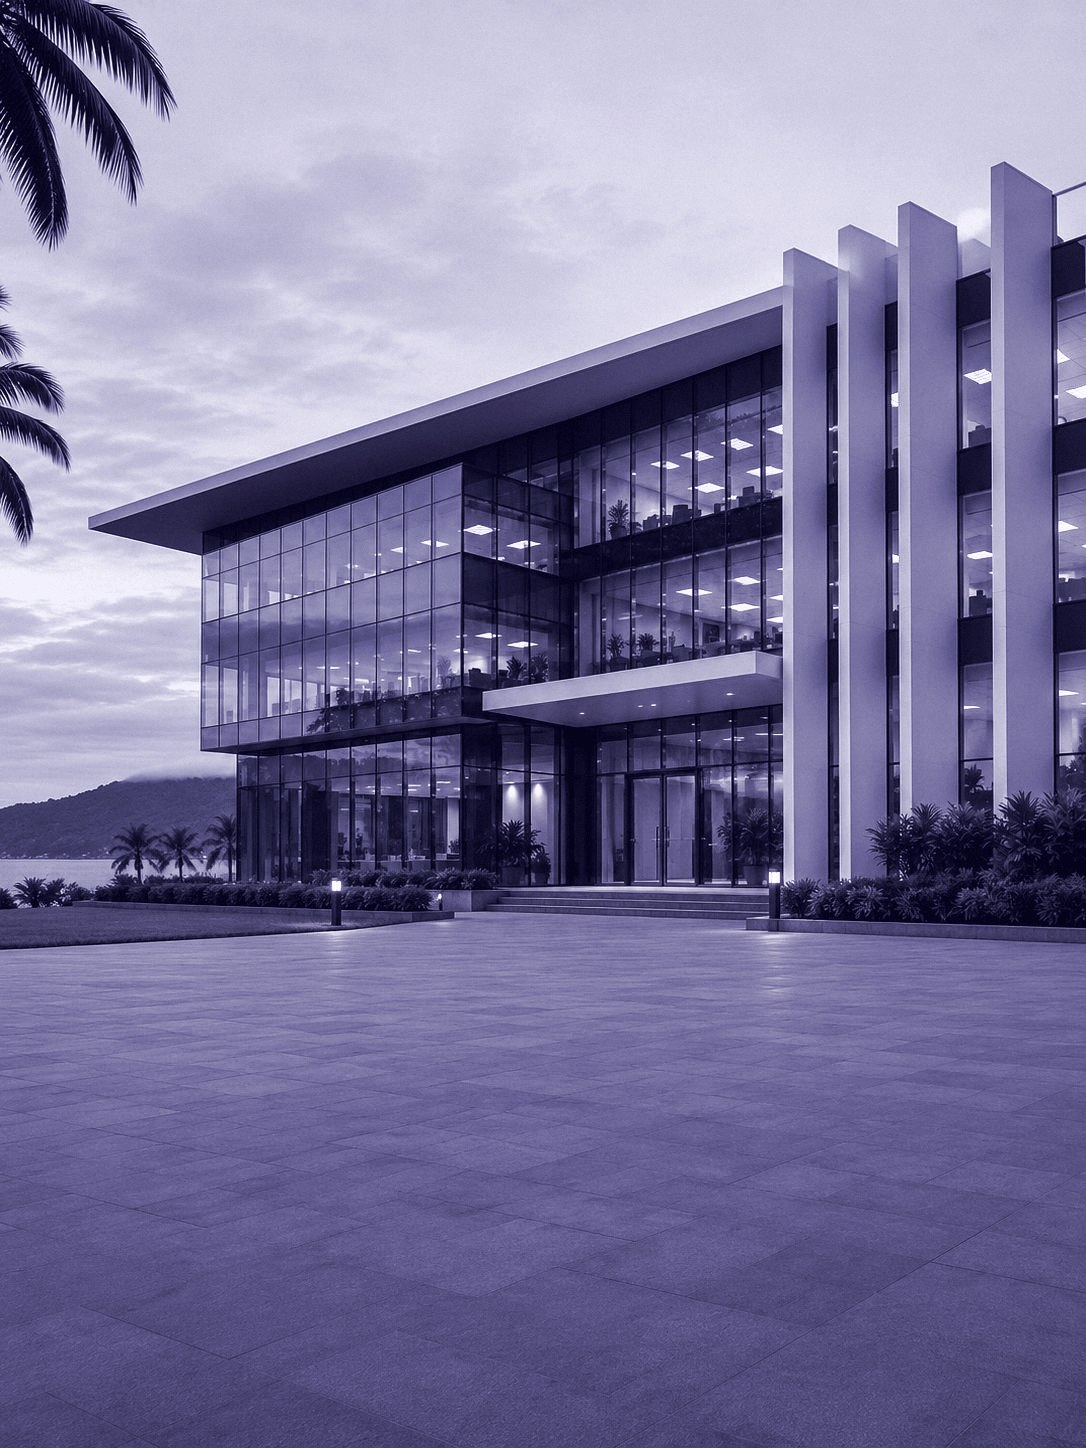
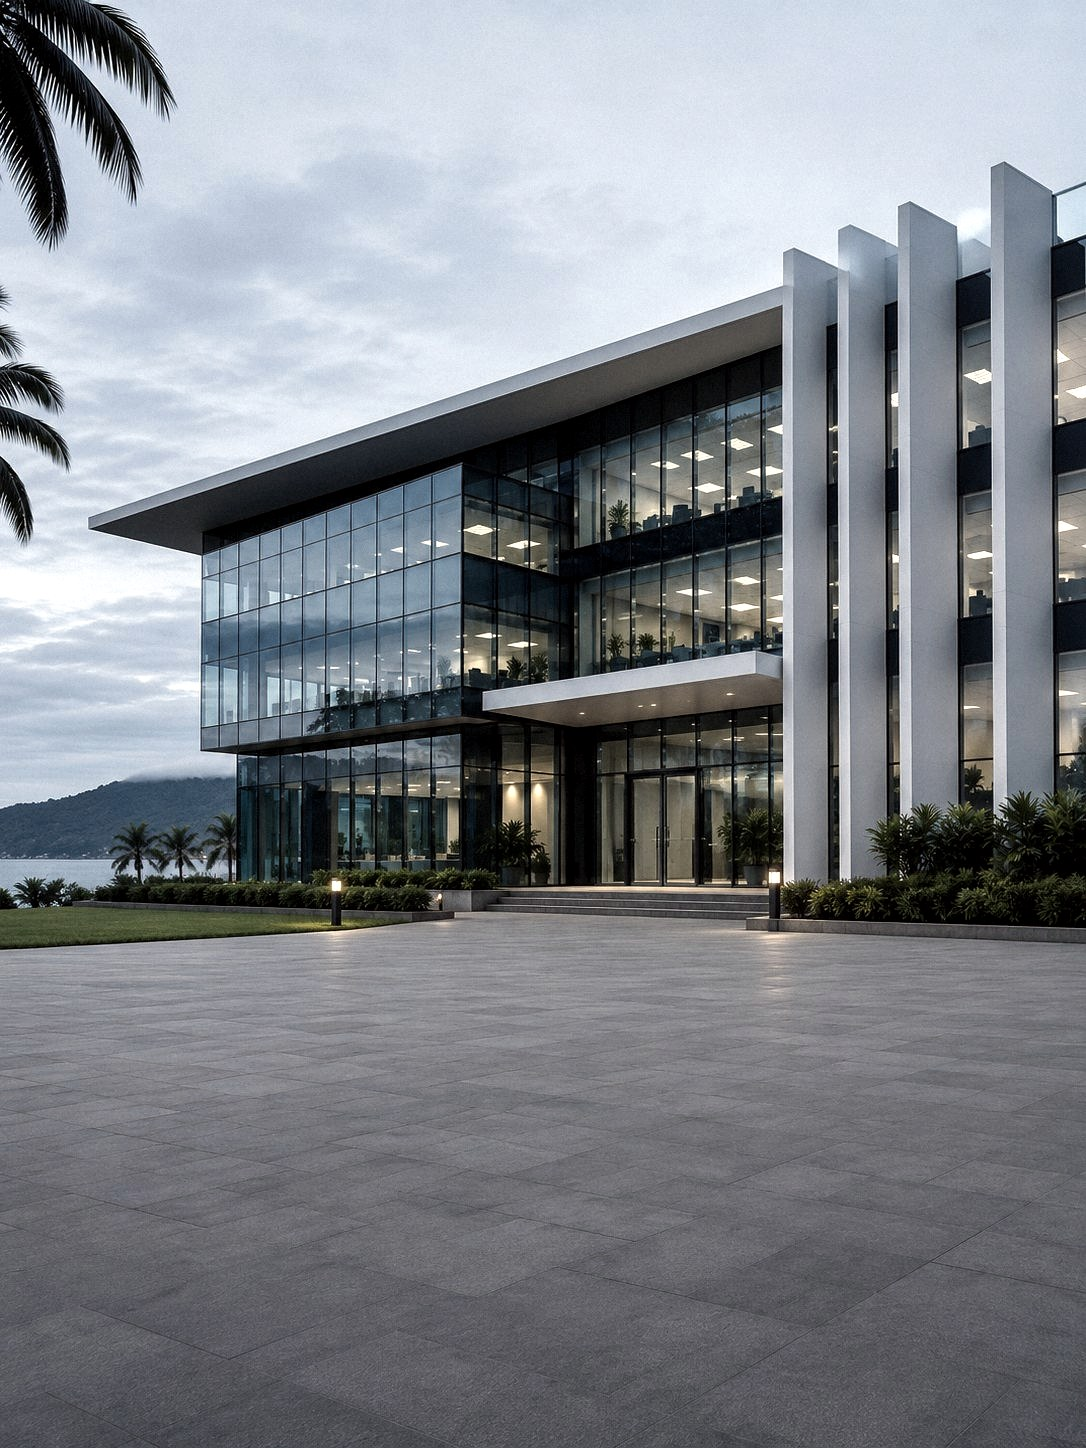
Balance pass: natural photography, neutral surfaces, light hero and client wall
- Regrade all photos from the originals: true colour, slightly desaturated,
  blue cast neutralised; no duotone tint
- Neutral paper and mist tokens; white is the action colour on dark panels;
  violet kept as a precise accent
- Hero settles into paper instead of night; client wall is light with ink
  client logos and an ink partner strip
- Quieten the brand patterns on the remaining dark panels

diff --git a/index.html b/index.html
@@ -77,10 +77,10 @@
       <p>Trusted by enterprise teams across the US, India, Australia and Europe</p>
       <a href="#results" class="allies-link">See client results <svg class="ar"><use href="#arr"/></svg></a>
     </div>
-    <div class="marq"><ul class="mtrack"><li><img src="assets/logos/mono/marriott-1-1.png" alt="Marriott Bonvoy" loading="lazy" decoding="async" width="170" height="60"></li><li><img src="assets/logos/mono/verizon-1-1.png" alt="Verizon" loading="lazy" decoding="async" width="170" height="60"></li><li><img src="assets/logos/mono/cinemark-1-1.png" alt="Cinemark" loading="lazy" decoding="async" width="170" height="60"></li><li><img src="assets/logos/mono/frontier-1-1.png" alt="Frontier Communications" loading="lazy" decoding="async" width="170" height="60"></li><li><img src="assets/logos/mono/sinclair-1-1.png" alt="Sinclair Broadcast Group" loading="lazy" decoding="async" width="170" height="60"></li><li><img src="assets/logos/mono/harte_hanks-1-1.png" alt="Harte Hanks" loading="lazy" decoding="async" width="170" height="60"></li><li><img src="assets/logos/mono/masergy-1-1.png" alt="Masergy" loading="lazy" decoding="async" width="170" height="60"></li><li><img src="assets/logos/mono/torani-1-1.png" alt="Torani" loading="lazy" decoding="async" width="170" height="60"></li><li aria-hidden="true"><img src="assets/logos/mono/marriott-1-1.png" alt="" data-alt="Marriott Bonvoy" loading="lazy" decoding="async" width="170" height="60"></li><li aria-hidden="true"><img src="assets/logos/mono/verizon-1-1.png" alt="" data-alt="Verizon" loading="lazy" decoding="async" width="170" height="60"></li><li aria-hidden="true"><img src="assets/logos/mono/cinemark-1-1.png" alt="" data-alt="Cinemark" loading="lazy" decoding="async" width="170" height="60"></li><li aria-hidden="true"><img src="assets/logos/mono/frontier-1-1.png" alt="" data-alt="Frontier Communications" loading="lazy" decoding="async" width="170" height="60"></li><li aria-hidden="true"><img src="assets/logos/mono/sinclair-1-1.png" alt="" data-alt="Sinclair Broadcast Group" loading="lazy" decoding="async" width="170" height="60"></li><li aria-hidden="true"><img src="assets/logos/mono/harte_hanks-1-1.png" alt="" data-alt="Harte Hanks" loading="lazy" decoding="async" width="170" height="60"></li><li aria-hidden="true"><img src="assets/logos/mono/masergy-1-1.png" alt="" data-alt="Masergy" loading="lazy" decoding="async" width="170" height="60"></li><li aria-hidden="true"><img src="assets/logos/mono/torani-1-1.png" alt="" data-alt="Torani" loading="lazy" decoding="async" width="170" height="60"></li></ul></div>
-    <div class="marq rev"><ul class="mtrack"><li><img src="assets/logos/mono/nch-1-1.png" alt="NCH" loading="lazy" decoding="async" width="170" height="60"></li><li><img src="assets/logos/mono/npc-1-1.png" alt="NPC International" loading="lazy" decoding="async" width="170" height="60"></li><li><img src="assets/logos/mono/capps-1-1.png" alt="CAPPS" loading="lazy" decoding="async" width="170" height="60"></li><li><img src="assets/logos/mono/cbs_rentals-1-1.png" alt="CBS Rentals" loading="lazy" decoding="async" width="170" height="60"></li><li><img src="assets/logos/mono/coach_net-1-1.png" alt="Coach-Net" loading="lazy" decoding="async" width="170" height="60"></li><li><img src="assets/logos/mono/demdaco-1-1.png" alt="DEMDACO" loading="lazy" decoding="async" width="170" height="60"></li><li><img src="assets/logos/mono/etc.png" alt="ETC" loading="lazy" decoding="async" width="170" height="60"></li><li aria-hidden="true"><img src="assets/logos/mono/nch-1-1.png" alt="" data-alt="NCH" loading="lazy" decoding="async" width="170" height="60"></li><li aria-hidden="true"><img src="assets/logos/mono/npc-1-1.png" alt="" data-alt="NPC International" loading="lazy" decoding="async" width="170" height="60"></li><li aria-hidden="true"><img src="assets/logos/mono/capps-1-1.png" alt="" data-alt="CAPPS" loading="lazy" decoding="async" width="170" height="60"></li><li aria-hidden="true"><img src="assets/logos/mono/cbs_rentals-1-1.png" alt="" data-alt="CBS Rentals" loading="lazy" decoding="async" width="170" height="60"></li><li aria-hidden="true"><img src="assets/logos/mono/coach_net-1-1.png" alt="" data-alt="Coach-Net" loading="lazy" decoding="async" width="170" height="60"></li><li aria-hidden="true"><img src="assets/logos/mono/demdaco-1-1.png" alt="" data-alt="DEMDACO" loading="lazy" decoding="async" width="170" height="60"></li><li aria-hidden="true"><img src="assets/logos/mono/etc.png" alt="" data-alt="ETC" loading="lazy" decoding="async" width="170" height="60"></li></ul></div>
+    <div class="marq"><ul class="mtrack"><li><img src="assets/logos/mono-ink/marriott-1-1.png" alt="Marriott Bonvoy" loading="lazy" decoding="async" width="170" height="60"></li><li><img src="assets/logos/mono-ink/verizon-1-1.png" alt="Verizon" loading="lazy" decoding="async" width="170" height="60"></li><li><img src="assets/logos/mono-ink/cinemark-1-1.png" alt="Cinemark" loading="lazy" decoding="async" width="170" height="60"></li><li><img src="assets/logos/mono-ink/frontier-1-1.png" alt="Frontier Communications" loading="lazy" decoding="async" width="170" height="60"></li><li><img src="assets/logos/mono-ink/sinclair-1-1.png" alt="Sinclair Broadcast Group" loading="lazy" decoding="async" width="170" height="60"></li><li><img src="assets/logos/mono-ink/harte_hanks-1-1.png" alt="Harte Hanks" loading="lazy" decoding="async" width="170" height="60"></li><li><img src="assets/logos/mono-ink/masergy-1-1.png" alt="Masergy" loading="lazy" decoding="async" width="170" height="60"></li><li><img src="assets/logos/mono-ink/torani-1-1.png" alt="Torani" loading="lazy" decoding="async" width="170" height="60"></li><li aria-hidden="true"><img src="assets/logos/mono-ink/marriott-1-1.png" alt="" data-alt="Marriott Bonvoy" loading="lazy" decoding="async" width="170" height="60"></li><li aria-hidden="true"><img src="assets/logos/mono-ink/verizon-1-1.png" alt="" data-alt="Verizon" loading="lazy" decoding="async" width="170" height="60"></li><li aria-hidden="true"><img src="assets/logos/mono-ink/cinemark-1-1.png" alt="" data-alt="Cinemark" loading="lazy" decoding="async" width="170" height="60"></li><li aria-hidden="true"><img src="assets/logos/mono-ink/frontier-1-1.png" alt="" data-alt="Frontier Communications" loading="lazy" decoding="async" width="170" height="60"></li><li aria-hidden="true"><img src="assets/logos/mono-ink/sinclair-1-1.png" alt="" data-alt="Sinclair Broadcast Group" loading="lazy" decoding="async" width="170" height="60"></li><li aria-hidden="true"><img src="assets/logos/mono-ink/harte_hanks-1-1.png" alt="" data-alt="Harte Hanks" loading="lazy" decoding="async" width="170" height="60"></li><li aria-hidden="true"><img src="assets/logos/mono-ink/masergy-1-1.png" alt="" data-alt="Masergy" loading="lazy" decoding="async" width="170" height="60"></li><li aria-hidden="true"><img src="assets/logos/mono-ink/torani-1-1.png" alt="" data-alt="Torani" loading="lazy" decoding="async" width="170" height="60"></li></ul></div>
+    <div class="marq rev"><ul class="mtrack"><li><img src="assets/logos/mono-ink/nch-1-1.png" alt="NCH" loading="lazy" decoding="async" width="170" height="60"></li><li><img src="assets/logos/mono-ink/npc-1-1.png" alt="NPC International" loading="lazy" decoding="async" width="170" height="60"></li><li><img src="assets/logos/mono-ink/capps-1-1.png" alt="CAPPS" loading="lazy" decoding="async" width="170" height="60"></li><li><img src="assets/logos/mono-ink/cbs_rentals-1-1.png" alt="CBS Rentals" loading="lazy" decoding="async" width="170" height="60"></li><li><img src="assets/logos/mono-ink/coach_net-1-1.png" alt="Coach-Net" loading="lazy" decoding="async" width="170" height="60"></li><li><img src="assets/logos/mono-ink/demdaco-1-1.png" alt="DEMDACO" loading="lazy" decoding="async" width="170" height="60"></li><li><img src="assets/logos/mono-ink/etc.png" alt="ETC" loading="lazy" decoding="async" width="170" height="60"></li><li aria-hidden="true"><img src="assets/logos/mono-ink/nch-1-1.png" alt="" data-alt="NCH" loading="lazy" decoding="async" width="170" height="60"></li><li aria-hidden="true"><img src="assets/logos/mono-ink/npc-1-1.png" alt="" data-alt="NPC International" loading="lazy" decoding="async" width="170" height="60"></li><li aria-hidden="true"><img src="assets/logos/mono-ink/capps-1-1.png" alt="" data-alt="CAPPS" loading="lazy" decoding="async" width="170" height="60"></li><li aria-hidden="true"><img src="assets/logos/mono-ink/cbs_rentals-1-1.png" alt="" data-alt="CBS Rentals" loading="lazy" decoding="async" width="170" height="60"></li><li aria-hidden="true"><img src="assets/logos/mono-ink/coach_net-1-1.png" alt="" data-alt="Coach-Net" loading="lazy" decoding="async" width="170" height="60"></li><li aria-hidden="true"><img src="assets/logos/mono-ink/demdaco-1-1.png" alt="" data-alt="DEMDACO" loading="lazy" decoding="async" width="170" height="60"></li><li aria-hidden="true"><img src="assets/logos/mono-ink/etc.png" alt="" data-alt="ETC" loading="lazy" decoding="async" width="170" height="60"></li></ul></div>
     <div class="allies-foot">
-      <div class="ap"><span class="apk">Technology partners</span><img src="assets/logos/XTGlobal-Patners.png" alt="Gold Microsoft Partner, Oracle Partner, Microsoft Cloud Solution Provider, UiPath" loading="lazy" width="1200" height="196"></div>
+      <div class="ap"><span class="apk">Technology partners</span><img src="assets/logos/XTGlobal-Partners-ink.png" alt="Gold Microsoft Partner, Oracle Partner, Microsoft Cloud Solution Provider, UiPath" loading="lazy" width="1200" height="196"></div>
       <ul class="acerts" aria-label="Certifications"><li>ISO 27001</li><li>SSAE 18</li><li>HIPAA</li><li>CMMI DEV/ML3</li><li>NMSDC MBE</li></ul>
     </div>
   </div>

diff --git a/build/site-v2.css b/build/site-v2.css
@@ -373,3 +373,58 @@ input[type=range]::-webkit-slider-thumb{box-shadow:0 0 0 6px rgba(110,75,255,.25
 /* footer: brand block spans the row on tablets; link columns never squeezed off-screen */
 @media(max-width:960px){.fg{grid-template-columns:repeat(2,minmax(0,1fr))}.fbrand{grid-column:1/-1}}
 @media(max-width:420px){.fg{grid-template-columns:minmax(0,1fr)}}
+
+/* =========================================================
+   BALANCE PASS: neutral surfaces, natural photography,
+   violet as a precise accent, dark kept for a few moments.
+   Dark is reserved for: Vector's stage, the GCC flagship,
+   a handful of feature cards, contact and the footer.
+   ========================================================= */
+:root{
+  --void:#0F0E1F;--midnight:#0F0E1F;--navy:#15142B;--n800:#211F3B;--n700:#2D2B4B;--n600:#403D66;
+  --sky:#FFFFFF;--sky3:#C9C1F4;--sky1:#EFECFB;--sky7:#5B3DF5;
+  --cloud:#F5F5F7;--mist:#E6E6EB;--slate:#5E5D70;--slate3:#A4A3B6;
+  --ink:#121126;--ink2:#55546A;--line:rgba(18,17,38,.09);
+}
+body{background:#fff}
+::-webkit-scrollbar-thumb{background:#C9C9D2}
+html{scrollbar-color:#C9C9D2 transparent}
+.b-sky:hover{background:#ECEAF6}
+.tag::before{background:var(--indigo);box-shadow:0 0 0 3px rgba(110,75,255,.18)}
+.bigline .ico.a{background:var(--indigo)}
+.ri[aria-current="true"] .pr{background:var(--indigo);color:#fff}
+.seg2 button[aria-pressed="true"]{background:#fff;color:var(--ink);border-color:#fff}
+
+/* hero: daylight, neutral sky, the photo settles into paper instead of night */
+.shell.day{background:linear-gradient(180deg,#E8EBF0 0%,#F1F3F6 34%,#F8F9FA 58%,#F5F5F7 100%)}
+.shell.day .shade{background:linear-gradient(180deg,rgba(255,255,255,0) 52%,rgba(245,245,247,.55) 74%,rgba(245,245,247,.94) 90%,#F5F5F7 100%)}
+.shell.day>img.ph{filter:none}
+.shell.day>.pat{opacity:.16;mix-blend-mode:normal}
+.sky-fx .haze{background:radial-gradient(closest-side,rgba(255,255,255,.55),rgba(255,255,255,0))}
+.floor::before{background:linear-gradient(90deg,transparent,rgba(18,17,38,.14),transparent)}
+.rc{-webkit-box-reflect:below 12px linear-gradient(transparent 70%,rgba(255,255,255,.22))}
+.rc,.rc.front{box-shadow:0 1px 2px rgba(18,17,38,.06),0 30px 60px -28px rgba(18,17,38,.32)}
+.rc.dark,.rc.mid,.rc.ask,.rc.dark.front,.rc.mid.front,.rc.ask.front{box-shadow:0 1px 2px rgba(18,17,38,.1),0 30px 60px -26px rgba(18,17,38,.5)}
+.rc.cloud{background:#F2F2F5}
+
+/* client wall: light, ink logos, hairline grid */
+.allies{background:#F5F5F7;color:var(--ink)}
+.allies-head p{color:var(--ink)}
+.allies-link{color:var(--sky7);border-bottom-color:rgba(91,61,245,.3)}
+.allies-link:hover{color:var(--ink);border-color:var(--ink)}
+.allies .mtrack li{border-color:rgba(18,17,38,.08);background:#fff}
+.allies .mtrack li::after{background:rgba(110,75,255,.05)}
+.allies .mtrack img{opacity:.62}
+.apk{color:var(--slate)}
+.ap img{margin-left:-12px}
+.acerts li{color:var(--ink);border-color:rgba(18,17,38,.12);background:#fff}
+.acerts li::before{border-color:var(--indigo)}
+
+/* light sections read as one calm paper; dark accents stay solid */
+.g-here,.bc.cl,.pc.a,.iv:not(.ft),.ic2,.nobj,.ri,.ct,.band,.tray,.logos div{background:var(--cloud)}
+.sv{border-color:var(--mist)}
+.bigline .soft{color:#7A7990}
+
+/* patterns on dark panels whisper, never tint */
+.gcc>.pat,.g-ask>.pat,.sv.flag>.pat,.iv.ft>.pat,.bc.dk>.pat,.pc.b>.pat,.rc>.pat,.foot>.pat,.cta>.pat{opacity:.22!important}
+.gx-hero>.pat,.gx-campus>.pat{opacity:.22}
